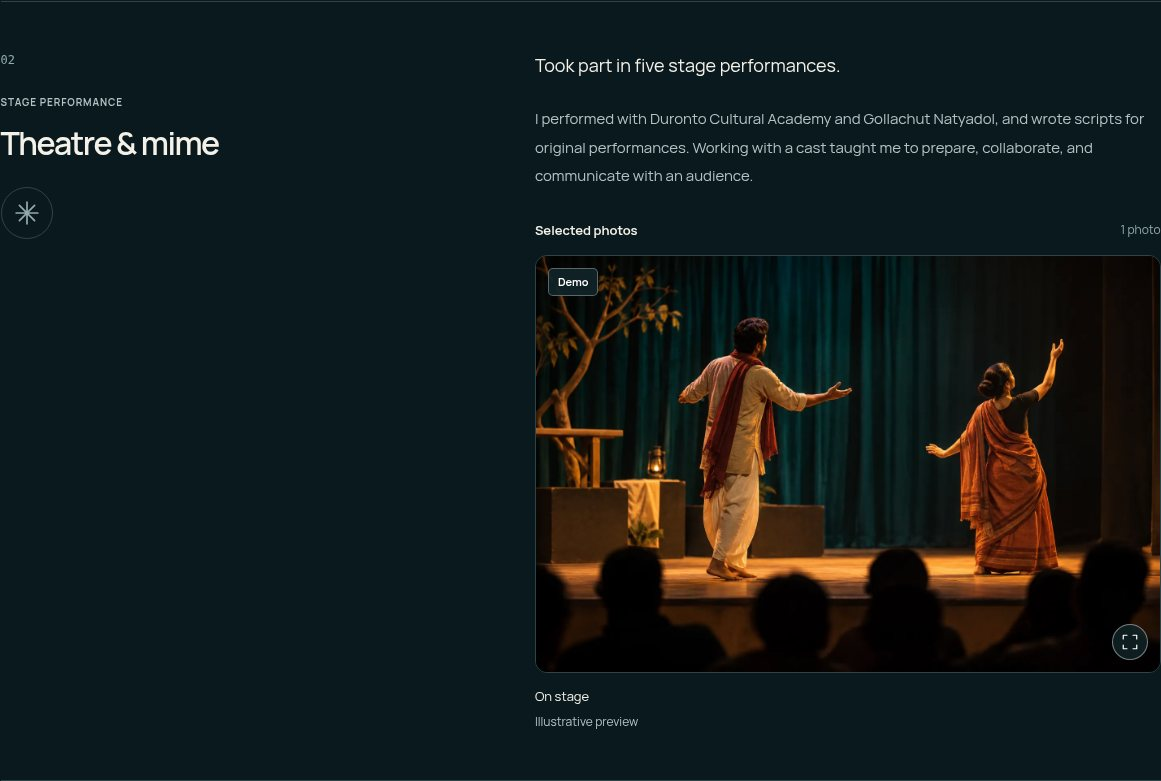
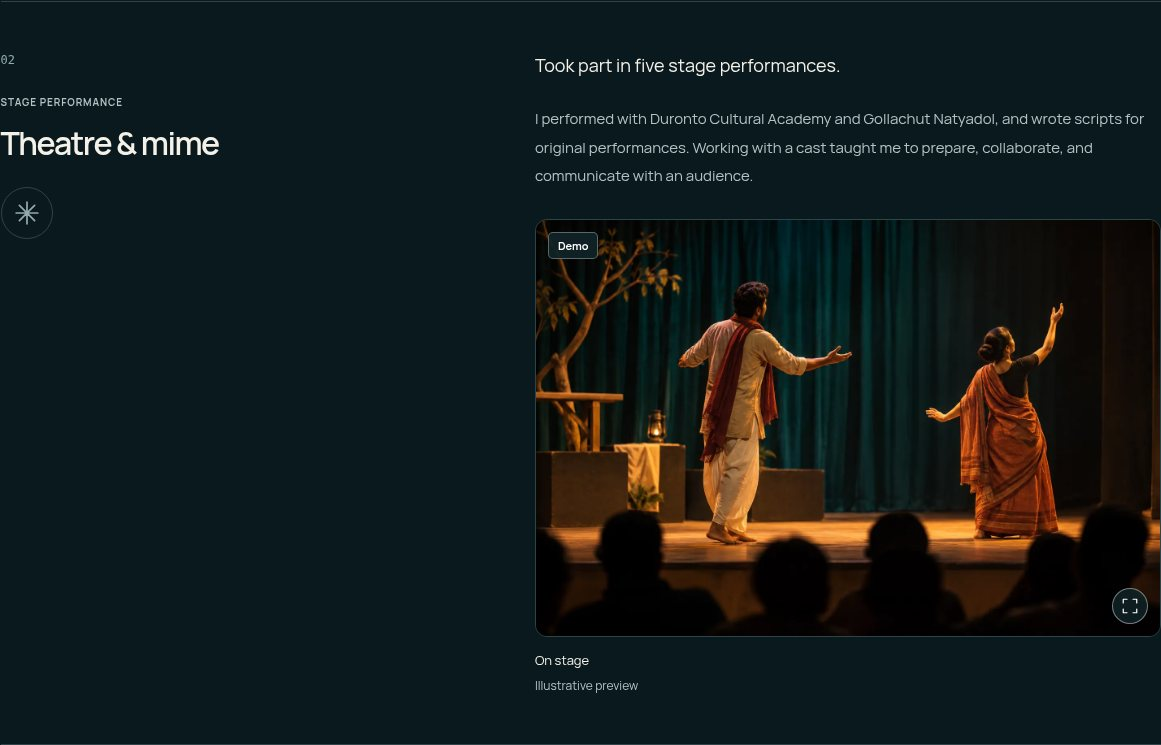
Simplify activity gallery labels and presentation

diff --git a/src/styles/global.css b/src/styles/global.css
@@ -321,13 +321,7 @@ h2 { font-size: clamp(30px, 3vw, 40px); font-weight: 600; line-height: 1.2; lett
 .activity-prose p { margin-bottom: 18px; }
 .activity-prose p:last-child { margin: 0; }
 /* Activity photographs: quiet thumbnails, clear captions and a native viewer. */
-.gallery-preview-note { display: flex; align-items: flex-start; gap: 24px; border: 1px solid var(--line); border-radius: 8px; background: var(--surface); padding: 18px 22px; margin-bottom: 36px; }
-.gallery-preview-note .eyebrow { flex-shrink: 0; margin-top: 3px; color: var(--accent); }
-.gallery-preview-note p { color: var(--muted); font-size: 13px; line-height: 1.85; max-width: 780px; }
 .activity-gallery { margin-top: 28px; }
-.activity-gallery-heading { display: flex; align-items: center; justify-content: space-between; gap: 20px; margin-bottom: 14px; }
-.activity-gallery-heading h3 { font-size: 13px; font-weight: 650; letter-spacing: 0; }
-.activity-gallery-heading > span { font-size: 12px; color: var(--quiet); }
 .activity-photo-grid { display: grid; grid-template-columns: repeat(2, minmax(0, 1fr)); gap: 20px; }
 .activity-photo-grid.single-photo { grid-template-columns: 1fr; }
 .activity-photo { min-width: 0; }
@@ -567,7 +561,6 @@ h2 { font-size: clamp(30px, 3vw, 40px); font-weight: 600; line-height: 1.2; lett
   .not-found { padding-block: 64px 80px; }
 }
 @media (max-width: 799px) {
-  .gallery-preview-note { flex-direction: column; gap: 8px; padding: 18px; margin-bottom: 28px; }
   .activity-photo-preview { max-width: 420px; }
   .activity-photo-grid { gap: 18px; }
   .photo-viewer { width: calc(100% - 24px); max-height: calc(100dvh - 24px); padding: 16px; }

diff --git a/tests/browser/portfolio.spec.ts b/tests/browser/portfolio.spec.ts
@@ -256,7 +256,6 @@ test('activity photo captions and full-image links work without JavaScript', asy
   const caption = await links.first().getAttribute('data-photo-caption');
   const destination = await links.first().getAttribute('href');
   await expect(page.locator('.activity-photo figcaption').first()).toContainText(caption!);
-  if (await page.locator('.gallery-preview-note').count()) await expect(page.locator('.gallery-preview-note')).toContainText('not photos of my own events');
   await links.first().click();
   await expect(page).toHaveURL(destination!);
   await context.close();

diff --git a/docs/VERIFICATION.md b/docs/VERIFICATION.md
@@ -1,6 +1,6 @@
 # Local verification — Offscript
 
-Verified October 23, 2026. The checks below cover the production build; deployment verification is recorded in the Publication section. The publication section retains deployment records; the October 23 UI and activity-gallery revisions were verified on the local production build as described below.
+Verified October 23, 2026. The checks below cover the production build; deployment verification is recorded in the Publication section. The publication section retains deployment records; the October 23 UI, activity-gallery and gallery presentation revisions were verified on the local production build as described below.
 
 - Existing locked dependency installation was reused for this UI revision; the earlier frozen reinstall (`npm ci`) passed. No dependencies changed.
 - `npm run check`: 30 files, zero errors, warnings or hints.
@@ -10,6 +10,7 @@ Verified October 23, 2026. The checks below cover the production build; deployme
 - `npm run test:browser`: 36 tests passed. Includes both themes, WCAG A/AA automated checks on representative pages, mobile open-menu accessibility, keyboard/Escape navigation, shareable filters, back navigation, theme persistence, blocked storage, no-JavaScript navigation, 404 recovery and overflow and clipped-cover-title checks on all 15 HTML routes at 320/360/390/768/800/1024/1440 pixels. A published website contribution is checked for live-site/source/integration destinations and absence of a fabricated PR number; personal-fork infrastructure work retains its separate label. New writing checks cover local/external filters, article navigation and dates, plus reading without JavaScript. Gallery checks cover both-theme modal accessibility, previous/next and arrow-key navigation, forward/reverse Tab containment, Escape, focus restoration, mobile fit/backdrop/close controls, Home-to-gallery navigation and no-JavaScript image links. Gallery tests derive photo counts/destinations from published content so replacing demo images does not require test edits.
 - Earlier production dependency audit (`npm audit --omit=dev --audit-level=moderate`): zero reported vulnerabilities. Dependencies were not changed or re-audited for the UI revision.
 - Manual browser checks: Activities navigation/active state, email copy and canonical article-link copy, reduced-motion fallback, all six detail-cover titles and desktop/mobile screenshots in both themes. A clipped Tuktak title at 320px was corrected. README includes fresh dark/light Home previews and an activity-gallery preview. The three demo images are local, optimized WebP files (roughly 258 KiB combined), explicitly marked as fictional placeholders. Lazy images were decoded and allowed to paint before screenshot review. Relative documentation links resolve. RSS and sitemap were parsed as XML for the preceding content revision.
+- Gallery presentation cleanup: removed the page-wide notice and repeated thumbnail headings/counts; retained accessible group labels, Demo badges, captions and the viewer counter. README gallery image and desktop/mobile previews were refreshed in both themes.
 - `git diff --check`: passed.
 
 ## Lighthouse
@@ -25,7 +26,7 @@ Accessible-name mismatches were corrected and the final Lighthouse report listed
 
 ## Publication
 
-The UI refinement deployed successfully in run [39990713121](https://github.com/tanzilamd/tanzilamd.github.io/actions/runs/39990713121) for commit `be88f85`. The gallery update is verified locally; use the latest master Actions run for its publication status.
+The UI refinement deployed successfully in run [39990713121](https://github.com/tanzilamd/tanzilamd.github.io/actions/runs/39990713121) for commit `be88f85`. The gallery update subsequently deployed in run [39998247627](https://github.com/tanzilamd/tanzilamd.github.io/actions/runs/39998247627) for commit `72cfb73`. The gallery presentation cleanup uses the same master workflow; consult Actions for its deployment status.
 
 The October 23 writing/content update deployed successfully in run [39986183947](https://github.com/tanzilamd/tanzilamd.github.io/actions/runs/39986183947) for commit `87f4134`. The UI revision uses the same checked `master` deployment workflow; consult Actions for its deployment status.
 

diff --git a/docs/CONTENT-GUIDE.md b/docs/CONTENT-GUIDE.md
@@ -110,8 +110,8 @@ Debate, theatre এবং teaching/volunteering-এর ছবিগুলো স
 ```
 
 3. `src` হবে upload করা ছবির path; শুরুতে `public` লিখবেন না। `alt`-এ ছবিতে কী হচ্ছে তার বর্ণনা, `caption`-এ ছোট কথা দিন। `event`, `year`, `role` optional—নিশ্চিত না হলে field বাদ রাখুন। `year` double quote-এর মধ্যে থাকবে।
-4. একাধিক ছবি দিতে `gallery`-র মধ্যে দ্বিতীয় `{ ... }` যোগ করুন, মাঝখানে comma দিন। Caption ও photo count নিজে update হবে। সব ছবি সরাতে `"gallery": []` রাখুন।
-5. আসল ছবি বসালে সংশ্লিষ্ট `demo` হবে **false**, এবং demo alt/caption-ও বাস্তব বর্ণনা দিয়ে বদলাবেন। বাকি demo ছবিতে label থাকবে। সব demo বদলানো হলে page-এর preview notice নিজে সরে যাবে।
+4. একাধিক ছবি দিতে `gallery`-র মধ্যে দ্বিতীয় `{ ... }` যোগ করুন, মাঝখানে comma দিন। Caption ও বড় viewer-এর photo count নিজে update হবে। সব ছবি সরাতে `"gallery": []` রাখুন।
+5. আসল ছবি বসালে সংশ্লিষ্ট `demo` হবে **false**, এবং demo alt/caption-ও বাস্তব বর্ণনা দিয়ে বদলাবেন। বাকি demo ছবিতে label থাকবে।
 6. Activity-এর `"homePreview": true` থাকলে তার **প্রথম ছবিটি Home-এও দেখাবে**। বর্তমানে theatre-তে true আছে। অন্য activity বেছে নিতে পুরোনোটিতে false ও নতুনটিতে true দিন। Featured activity-গুলোর মধ্যে প্রথম নির্বাচিতটি ব্যবহার হবে; কোনোটি না বাছলে ছবি আছে এমন প্রথম featured activity বেছে নেবে।
 7. Commit করুন; Actions সফল হলে Home ও Activities-এ একই data থেকে update দেখা যাবে। Component edit লাগবে না।
 

diff --git a/docs/UI-GUIDE.md b/docs/UI-GUIDE.md
@@ -42,6 +42,6 @@ Also check the following manually when relevant:
 5. JavaScript disabled, blocked storage, reduced motion, and browser zoom.
 6. README/content guide/template descriptions still match the current implementation.
 
-Activity thumbnails crop to a consistent 3:2 frame; the viewer contains the whole image. Keep the Demo label and page explanation while generated placeholders remain. Replace the source, alt text and captions and set `demo: false` only for real event photos. The Home preview links to its activity section; it does not open a separate Home dialog. Native `<dialog>` makes the background inert; explicit Tab/Shift+Tab wrapping keeps keyboard focus on the viewer controls, and closing restores the triggering link. Arrow keys and previous/next controls browse the published photos; plain image links remain functional without JavaScript. Check the single-photo/empty-gallery states when changing gallery data.
+Activity thumbnails crop to a consistent 3:2 frame; the viewer contains the whole image. Photos follow the activity description directly, without a separate gallery heading, thumbnail count or page-wide notice. Keep the small Demo label while generated placeholders remain; the viewer retains its photo counter. Replace the source, alt text and captions and set `demo: false` only for real event photos. The Home preview links to its activity section; it does not open a separate Home dialog. Native `<dialog>` makes the background inert; explicit Tab/Shift+Tab wrapping keeps keyboard focus on the viewer controls, and closing restores the triggering link. Arrow keys and previous/next controls browse the published photos; plain image links remain functional without JavaScript. Check the single-photo/empty-gallery states when changing gallery data.
 
 Automated accessibility results do not establish complete WCAG conformance. Record actual checks in `docs/VERIFICATION.md`, and keep historical Lighthouse scores explicitly separate from current results.

diff --git a/docs/RELEASE-NOTES.md b/docs/RELEASE-NOTES.md
@@ -4,11 +4,16 @@
 
 Responsive dark/light portfolio; new owner-supplied portrait; four selected projects and two earlier-work stories; eleven selected open-source records; About, Activities, Writing, Contact and 404; content templates; sitemap/metadata; self-hosted fonts; optimized images; GitHub Pages workflow; build, authoring, privacy/link and browser/accessibility checks.
 
+## October 23 gallery presentation cleanup
+
+- Removed the page-wide demo preview notice, repeated “Selected photos” headings and thumbnail counts at the owner’s request. Photos now follow each activity’s description directly; captions, small Demo labels and the viewer counter remain.
+- Preserved accessible gallery group labels, full-image navigation and the content-only photo update workflow. Refreshed the README gallery preview and related guides.
+
 ## October 23 activity galleries
 
 - Added data-driven activity galleries with captions, optional event/year/role, and a single selected Home preview. Activity information and images still share one content record.
 - Added a native full-image dialog with previous/next controls, arrow keys, Escape, backdrop closing, focus restoration and mobile layouts. Without JavaScript, thumbnails remain direct image links.
-- Used three local, optimized AI-generated demo scenes for debate, theatre and community learning at the owner's request. Every thumbnail and viewer image is explicitly labelled Demo; the page explains that these are not personal event photographs. No event dates or participation claims were invented.
+- Used three local, optimized AI-generated demo scenes for debate, theatre and community learning at the owner's request. Every thumbnail and viewer image is explicitly labelled Demo. No event dates or participation claims were invented.
 - Updated the activity template, Bengali photo-replacement instructions, README previews, UI guide and credits together.
 
 ## October 23 UI refinement

diff --git a/README.md b/README.md
@@ -41,7 +41,7 @@ Draft content is excluded from generated pages, RSS and sitemap. A public Git re
 - Contributions: up to three featured entries. A `spotlight: true` entry also receives a detailed Open source feature; Tabbycat’s published website work links to its source and upstream integration.
 - Recognition: up to three featured milestones. All awards and work experience appear on About; Hacktoberfest milestones also appear under Open source.
 - Activities: featured entries appear on Home; all published activities appear under Activities. Edit one activity’s summary once to update both views.
-- Activity photos: add `gallery` entries to the same activity file. Set `homePreview: true` to choose its first photo for the Home preview. Captions support event/year/role; the full-image viewer supports keyboard navigation and works with direct image links without JavaScript. Current images are clearly labelled AI-generated **Demo** placeholders, not personal event photographs. [Replace them using the photo guide](docs/CONTENT-GUIDE.md#activity-photos--আসল-ছবি-বসানো).
+- Activity photos: add `gallery` entries to the same activity file. Set `homePreview: true` to choose its first photo for the Home preview. Photos follow each activity’s description directly, with captions and small Demo badges. Captions support event/year/role; the full-image viewer supports keyboard navigation and works with direct image links without JavaScript. Current images are clearly labelled AI-generated **Demo** placeholders, not personal event photographs. [Replace them using the photo guide](docs/CONTENT-GUIDE.md#activity-photos--আসল-ছবি-বসানো).
 - Writing: the first featured entry, or the latest entry when none is featured. About also shows the first featured personal essay. Writing itself sorts by publication date, then `order`.
 
 ## UI and project structure
